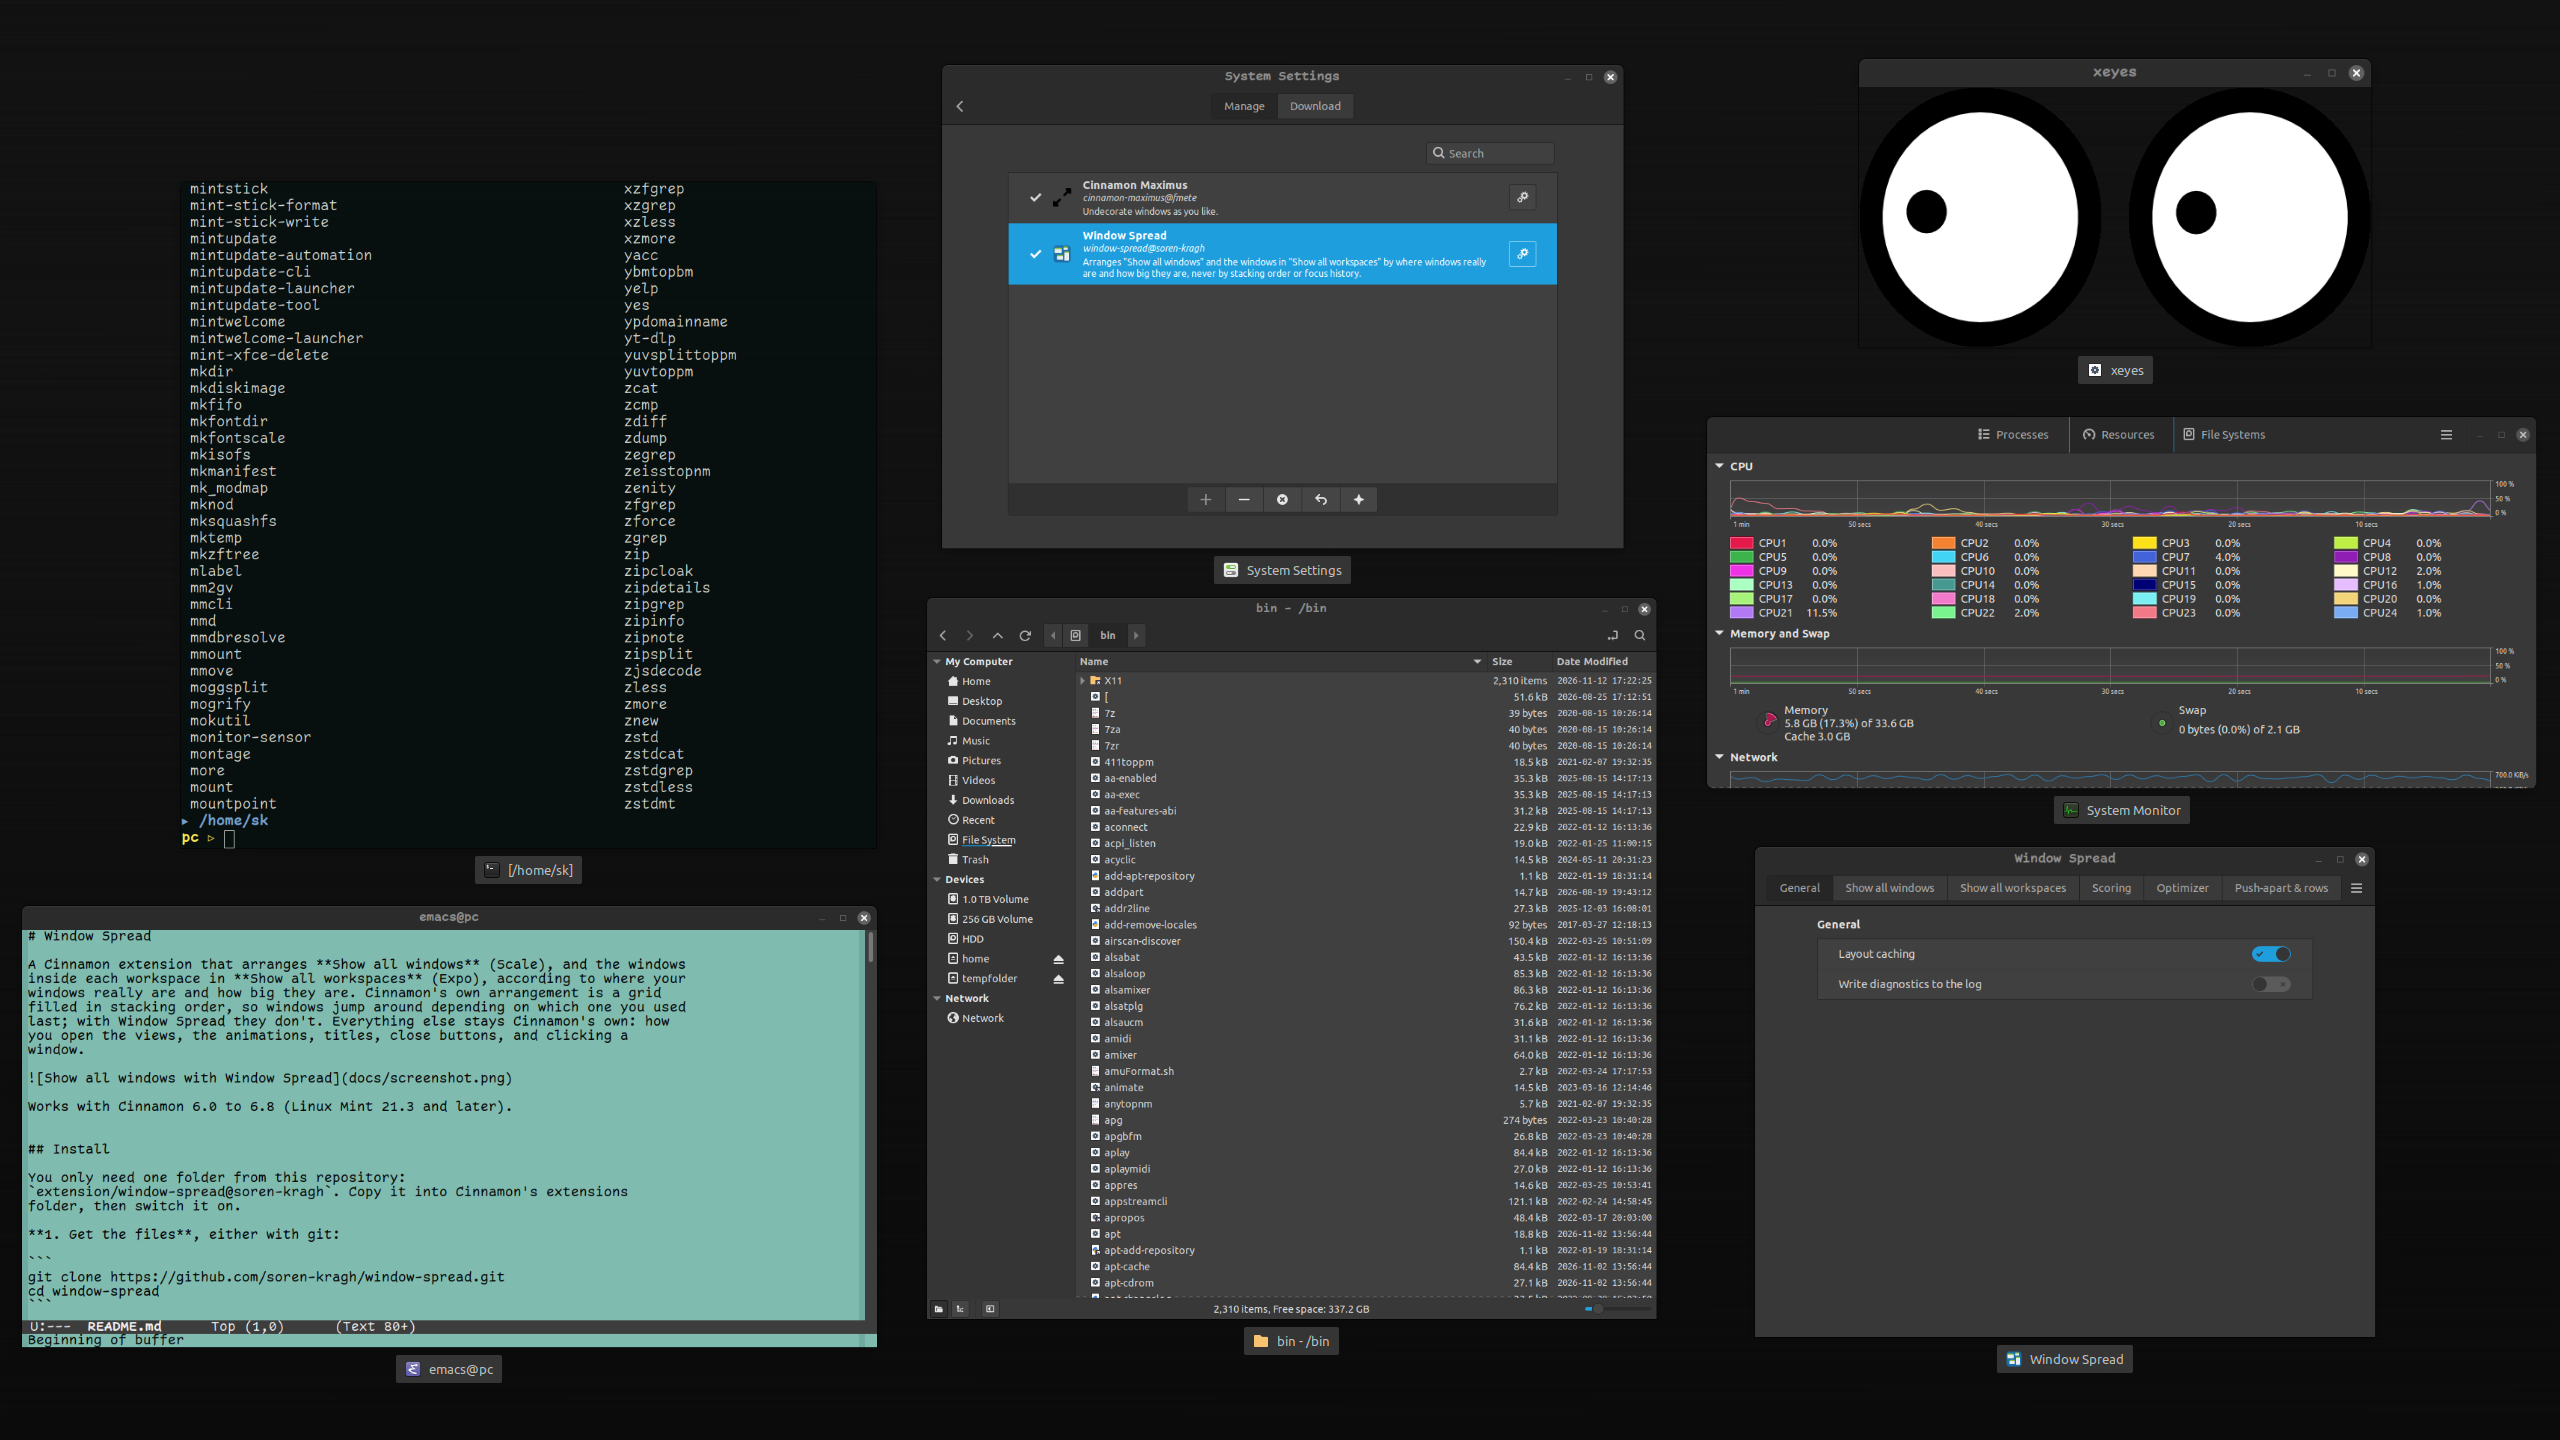
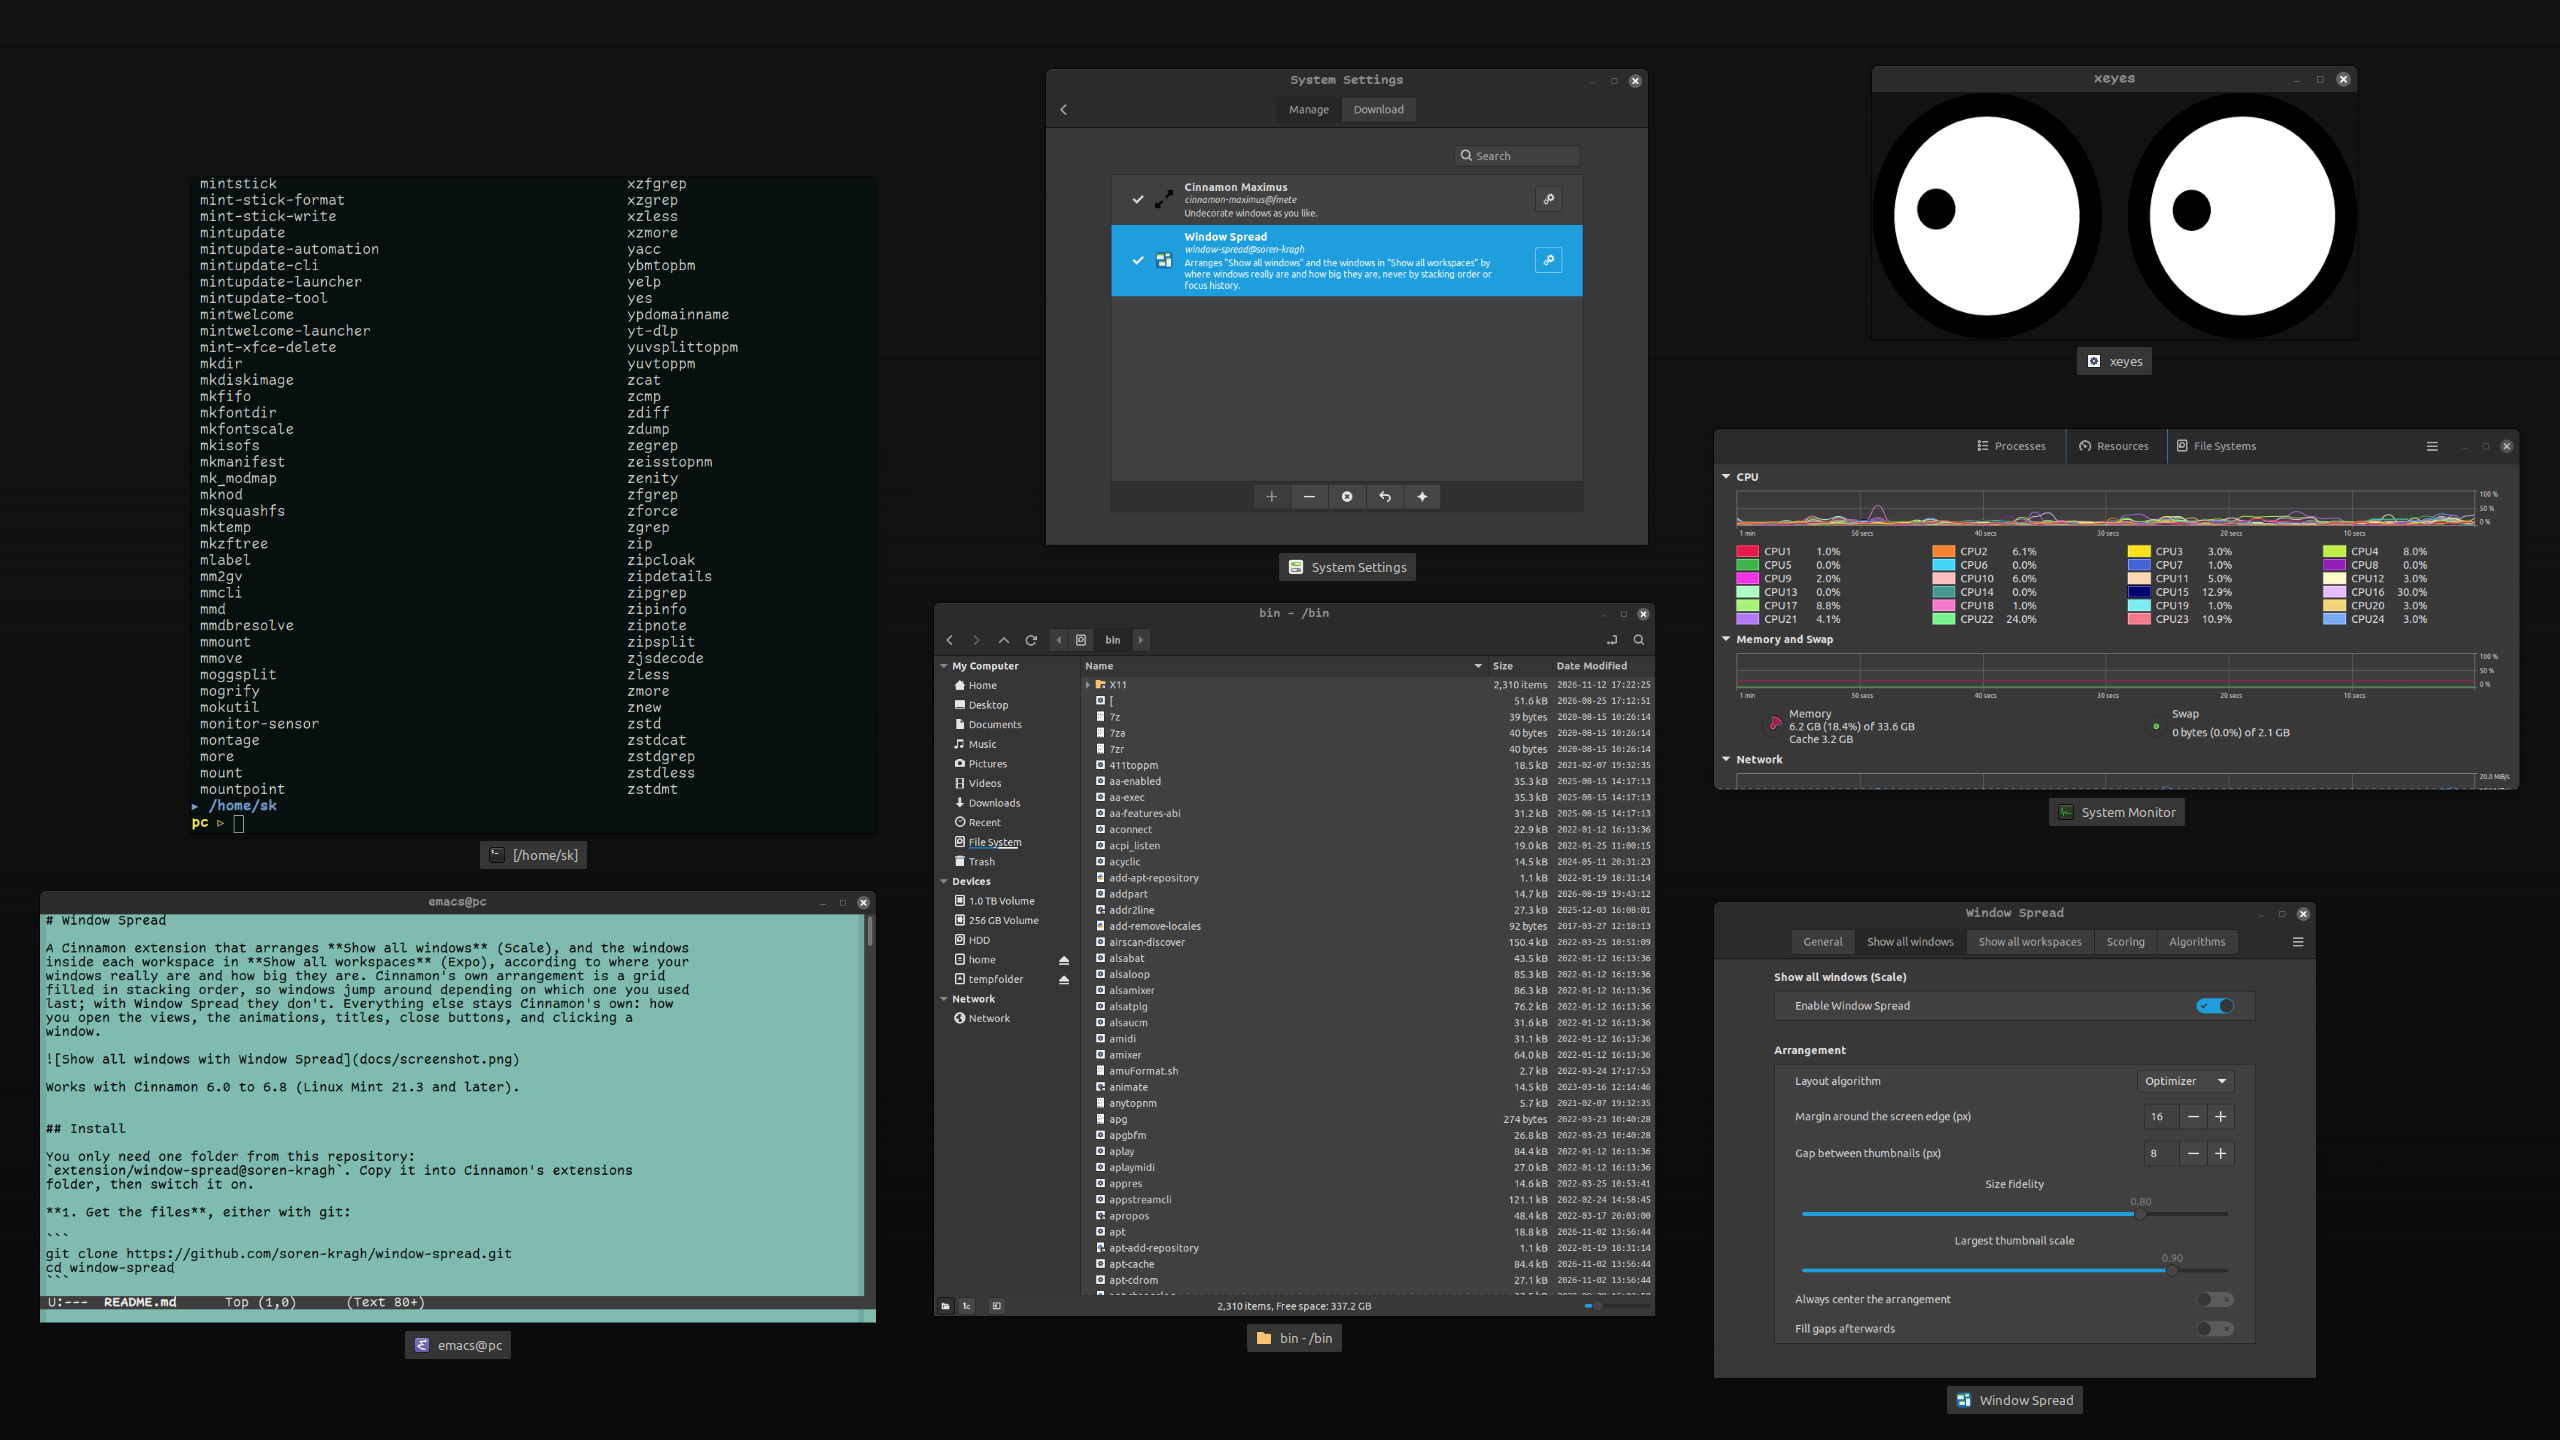
Always polish push apart too

diff --git a/tools/build-schema.js b/tools/build-schema.js
@@ -60,7 +60,6 @@ const schema={
 
   'push-strength':scale('push','strength','Push strength',0.05,1,0.05,'How far each push moves an overlapping pair.'),
   'push-match-shape':scale('push','matchShape','Match screen shape',0,1,0.05,'Bias pushes toward the screen\'s shape.'),
-  'push-polish':sw('push','polish','Polish the result','Final small moves into free space that improve the score.'),
 
   'scale-enabled':{type:'switch',default:true,description:'Enable Window Spread',
     tooltip:'When off, Cinnamon arranges Show all windows itself.'},
@@ -101,7 +100,7 @@ const layout={type:'layout',pages:['page-general','page-layout','page-expo','pag
   'sec-layout':{type:'section',title:'Arrangement',dependency:'scale-enabled',keys:['algorithm','margin','gap','fidelity','max-scale','centered','fill','max-growth']},
   'sec-scoring':{type:'section',title:'What makes a good layout',keys:['w-size','w-place','w-relations','relations-method','neighbor-focus']},
   'sec-optimizer':{type:'section',title:'Optimizer',keys:['optimizer-effort']},
-  'sec-push':{type:'section',title:'Push apart (also a starting point for the optimizer)',keys:['push-strength','push-match-shape','push-polish']},
+  'sec-push':{type:'section',title:'Push apart (also a starting point for the optimizer)',keys:['push-strength','push-match-shape']},
   'sec-rows':{type:'section',title:'Ordered rows (also a starting point for the optimizer)',keys:['rows-count']},
   'sec-expo-enable':{type:'section',title:'Show all workspaces (Expo)',keys:['expo-enabled']},
   'sec-expo':{type:'section',title:'Arrangement',dependency:'expo-enabled',keys:['expo-algorithm','expo-margin','expo-gap','expo-fidelity','expo-max-scale','expo-centered','expo-fill','expo-max-growth']}};

diff --git a/extension/window-spread@soren-kragh/extension.js b/extension/window-spread@soren-kragh/extension.js
@@ -78,7 +78,8 @@ const EXPO_ICON_SCALE = 0.25;       // app icon scale factor in overviewModeOn (
 // The engine's DEFAULTS are the reference for default values; settings-schema.json is
 // generated from them. Engine settings not listed here keep their DEFAULTS value, e.g.
 // scoring.wSizes ("Keep sizes": it never changes a layout in the extension) and push.passes
-// (only a safety limit: push apart stops when nothing overlaps, long before it).
+// (only a safety limit: push apart stops when nothing overlaps, long before it); the
+// polish of the optimizer and push apart is always on (it clearly improves both).
 const SETTINGS_MAP = [
   ["margin", "common", "margin"], ["gap", "common", "gap"], ["fidelity", "common", "fidelity"],
   ["max-scale", "common", "maxScale"], ["centered", "common", "centered"], ["fill", "common", "fill"],
@@ -88,7 +89,6 @@ const SETTINGS_MAP = [
   ["neighbor-focus", "scoring", "neighborFocus"],
   ["optimizer-effort", "optimizer", "steps", 100],
   ["push-strength", "push", "strength"], ["push-match-shape", "push", "matchShape"],
-  ["push-polish", "push", "polish"],
   ["rows-count", "rows", "rows"],
 ];
 // Show all workspaces has its own copies of the layout settings (defaults from the same engine

diff --git a/tests/extension.test.js b/tests/extension.test.js
@@ -211,7 +211,7 @@ async function runChecks() {
     fidelity: d('fidelity'), maxScale: Math.min(1, d('max-scale')), centered: d('centered'), fill: d('fill'), maxGrowth: d('max-growth'),
     wSize: d('w-size'), wPlace: d('w-place'), wRelations: d('w-relations'), relationsMethod: d('relations-method'), neighborFocus: d('neighbor-focus'),
     steps: d('optimizer-effort') * 100,
-    pushStart: { passes: SL.DEFAULTS.push.passes, strength: d('push-strength'), matchShape: d('push-match-shape'), polish: d('push-polish') },
+    pushStart: { passes: SL.DEFAULTS.push.passes, strength: d('push-strength'), matchShape: d('push-match-shape'), polish: SL.DEFAULTS.push.polish },
     rowsStart: { rows: d('rows-count') } });
   const area = { x: CHROME.left, y: CHROME.top, w: 2560 - CHROME.left - CHROME.right, h: 1440 - CHROME.top - CHROME.bottom };
   const want = SL.compute(frames.map(f => ({ id: f.seq, x: f.x, y: f.y, w: f.w, h: f.h })), area, 'optimizer', S).targets;

diff --git a/DEVELOPMENT.md b/DEVELOPMENT.md
@@ -619,7 +619,9 @@ window too: push apart stops as soon as nothing overlaps, and on the same 294
 desktops it used at most 226 passes (30 windows; median 15 at 3 windows, 136 at
 30) and never reached the limit. Raising it changes nothing; lowering it below
 what a desktop needs only leaves overlaps for the cruder final cleanup. It
-stays in the engine as a safety limit, and in the lab.
+stays in the engine as a safety limit, and in the lab. Push apart's polish is
+always on as well (it lowers push apart's score by 3-9%, 5.18, and push apart
+is also the optimizer's safeguard candidate); the lab keeps the switch.
 
 
 ## 6. Verified facts about Cinnamon 6.0.5
